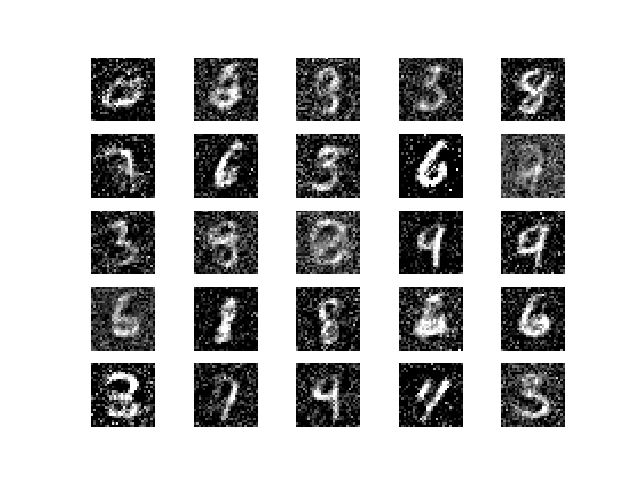
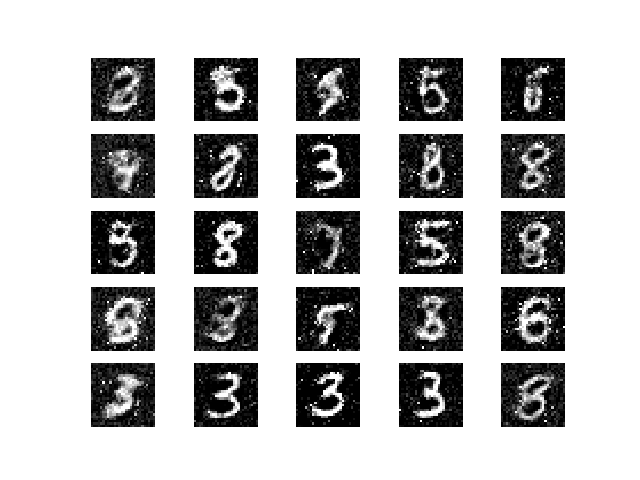
pg_gan example add

diff --git a/examples/pg_gan_fast.py b/examples/pg_gan_fast.py
@@ -1,0 +1,256 @@
+from GANLib import WGAN_GP, utils
+
+import tensorflow as tf
+import matplotlib.pyplot as plt
+import numpy as np
+
+from skimage.measure import block_reduce
+
+
+
+#                   Progressive Growing of GANs
+#   Paper: https://arxiv.org/pdf/1710.10196.pdf
+
+#       Description:
+#   Takes as input some dataset and trains the network as usual GAN but progressively 
+#   adding layers to generator and discriminator.
+
+#       Note:
+#   This implementation of PG GAN trains much faster than original, but support only 
+#   constant amount of filters for all convolution layers.
+
+#-------------------------------
+# Auxiliary functions
+#-------------------------------  
+
+def augment(data):
+    off_x_p = data.copy()
+    off_x_p[:,1:,:,:] = off_x_p[:,:-1,:,:]
+    off_x_m = data.copy()
+    off_x_p[:,:-1,:,:] = off_x_p[:,1:,:,:]
+    data = np.concatenate((data,off_x_p,off_x_m), axis = 0)
+    
+    off_y_p = data.copy()
+    off_y_p[:,:,1:,:] = off_y_p[:,:,:-1,:]
+    off_y_m = data.copy()
+    off_y_m[:,:,:-1,:] = off_y_m[:,:,1:,:]
+    data = np.concatenate((data,off_y_p,off_y_m), axis = 0)
+    
+    return data
+'''
+def dynamic_he_scale(x, gain = np.sqrt(2)): 
+    #He's normal dynamic weight scaler
+    shape = x.shape.as_list()
+    fan_in, _ = keras.initializers._compute_fans(shape)
+    std = np.sqrt(gain / max(1., fan_in)) 
+    x_scale = x * K.constant(std)
+    
+    return x_scale
+   
+class Conv2D_sw(Conv2D): #Conv2D layer with dynamically scaled weights
+    def __init__(self, filters, kernel_size, **kwargs):
+        super(Conv2D_sw, self).__init__(
+            filters=filters,
+            kernel_size=kernel_size,
+            **kwargs)
+       
+    def call(self, inputs):
+        outputs = K.conv2d(
+                inputs,
+                weights_scale_func(self.kernel),
+                strides=self.strides,
+                padding=self.padding,
+                data_format=self.data_format,
+                dilation_rate=self.dilation_rate)
+        
+        if self.use_bias:
+            outputs = K.bias_add(
+                outputs,
+                self.bias,
+                data_format=self.data_format)
+                
+        if self.activation is not None:
+            return self.activation(outputs)
+            
+        return outputs
+
+class Dense_sw(Dense): #Dense layer with dynamically scaled weights
+    def __init__(self, units, **kwargs):
+        super(Dense_sw, self).__init__(units = units, **kwargs)
+       
+    def call(self, inputs):
+        output = K.dot(inputs, weights_scale_func(self.kernel))
+        if self.use_bias:
+            output = K.bias_add(output, self.bias, data_format='channels_last')
+        if self.activation is not None:
+            output = self.activation(output)
+        return output
+     
+'''           
+#-------------------------------
+# Define models structure
+#-------------------------------      
+      
+initialization = 'he_normal' #keras.initializers.RandomNormal(0, 1)  
+weights_scale_func = dynamic_he_scale
+
+filters = 64
+noise_dim = 64 
+channels = 3
+
+weights = {}
+sheets = 0
+
+
+def new_sheet(filters, kernel_size, padding, name, pix_norm = True):
+    def func(layer):
+        #w = weights.get(name,None) , weights = w
+        layer = tf.layers.conv2d(layer, filters, kernel_size, padding=padding, name = name, kernel_initializer = initialization)
+        layer = tf.nn.leaky_relu(layer, alpha=0.2) 
+        if pix_norm: layer = utils.PixelNorm()(layer)
+        return layer
+    return func
+    
+def transition_alpha(self):
+    return K.minimum(self.epoch.tensor / (self.epochs.tensor/2), 1) 
+   
+def generator(input):
+    previous_step = None
+    next_step = None
+
+    input_layer = input #Input(shape=(self.latent_dim,))
+    layer = RepeatVector(16)(input_layer)
+    layer = Reshape((4, 4, self.latent_dim))(layer)
+    
+    layer = new_sheet(filters, (4,4), 'same', 'genr_head_0')(layer)
+    layer = new_sheet(filters, (3,3), 'same', 'genr_head_1')(layer)
+    
+    #Growing layers
+    for i in range(sheets):
+        layer = UpSampling2D(2)(layer)
+        if i == sheets-1: previous_step = layer
+            
+        layer = new_sheet(filters, (3,3), 'same', 'genr_layer_0'+str(i))(layer)
+   
+    next_step = tf.layers.conv2d(layer, channels, (1,1), name = 'to_rgb', kernel_initializer = initialization) #to RGB
+    
+    #smooth fading
+    if previous_step is not None: 
+        previous_step = tf.layers.conv2d(previous_step, channels, (1,1), name = 'to_rgb') 
+        layer = Lambda(lambda x: x[0] + (x[1] - x[0]) * transition_alpha(self))([previous_step, next_step])
+    else:
+        layer = next_step
+      
+    return Model(input_layer, layer)
+    
+def discriminator(input):
+    previous_step = None
+    next_step = None
+    
+    input_layer = input #Input(shape=self.input_shape)
+    
+    layer = tf.layers.conv2d(input_layer, filters, (1,1), name = 'from_rgb', kernel_initializer = initialization) #from RGB
+    layer = tf.nn.leaky_relu(layer, alpha=0.2)
+    layer = utils.PixelNorm()(layer)
+    
+    #Growing layers
+    for i in range(sheets, 0, -1):
+        layer = new_sheet(filters, (3,3), 'same', 'disc_layer_0'+str(i))(layer)
+        layer = AveragePooling2D(2)(layer)
+
+        #smooth fading
+        if i == sheets:
+            next_step = layer
+            
+            previous_step = AveragePooling2D(2)(input_layer)
+            previous_step = tf.layers.conv2d(previous_step, filters, (1,1), name = 'from_rgb') #from RGB
+            previous_step = tf.nn.leaky_relu(previous_step, alpha=0.2)
+            previous_step = utils.PixelNorm()(previous_step)
+        
+            layer = Lambda(lambda x: x[0] + (x[1] - x[0]) * transition_alpha(self))([previous_step, next_step])
+                
+    
+    layer = utils.MiniBatchStddev(group_size=4)(layer)
+    layer = new_sheet(filters, (3,3), 'same', 'disc_head_0')(layer)
+    layer = new_sheet(filters, (4,4), 'valid', 'disc_head_1')(layer)
+    
+    layer = Flatten()(layer)
+    layer = tf.layers.dense(1, activation=self.disc_activation, kernel_initializer = initialization)(layer)
+
+    return Model(input_layer, layer)
+    
+#-------------------------------
+#  Main code
+#-------------------------------  
+
+r, c = 4, 6
+sample_noise = np.random.uniform(-1, 1, (r * c, noise_dim))
+def sample_images(gen, file):
+    gen_imgs = gen.predict([sample_noise])
+
+    # Rescale images 0 - 1
+    gen_imgs = 0.5 * gen_imgs + 0.5
+    gen_imgs = np.clip(gen_imgs,0,1)
+    
+    fig, axs = plt.subplots(r, c)
+    cnt = 0
+    for i in range(r):
+        for j in range(c):
+            if gen_imgs.shape[-1] == 1: 
+                axs[i,j].imshow(gen_imgs[cnt,:,:,0], cmap='gray')
+            else:
+                axs[i,j].imshow(gen_imgs[cnt,:,:])
+            axs[i,j].axis('off')
+            cnt += 1
+    
+    fig.savefig(file)
+    plt.close()   
+    
+    
+# Load the dataset
+(dataseta, labelsa), (datasetb, labelsb) = cifar10.load_data()
+dataset = np.concatenate((dataseta,datasetb), axis = 0)
+labels = np.concatenate((labelsa,labelsb), axis = 0)
+
+indx = np.where(labels == 8)[0] # we choose only one specific domain from the dataset
+dataset = dataset[indx]
+
+# Configure input
+dataset = (dataset.astype(np.float32) - 127.5) / 127.5
+if len(dataset.shape)<4:
+    dataset = np.expand_dims(dataset, axis=3)
+    
+
+# 6000 examples is not enough, so we augment dataset by shifting it along axis by 1 pixel 
+dataset = augment(dataset)
+ 
+epochs_list = [4000, 8000, 16000, 32000]
+batch_size_list = [16, 16, 16, 16]  
+image_size_list = [4, 8, 16, 32] 
+
+for i in range(len(epochs_list)):    
+    epochs = epochs_list[i]
+    batch_size = batch_size_list[i]
+    
+    sz = dataset.shape[1] // image_size_list[i]
+    data_set = block_reduce(dataset, block_size=(1, sz, sz, 1), func=np.mean) 
+    print(data_set.shape)
+    
+    # Build and train GAN
+    gan = WGAN_GP(data_set.shape[1:], noise_dim, optimizer = Adam(0.0002, 0.5, 0.9, clipnorm = 10))
+    gan.generator = build_generator(gan) #define generator model
+    gan.discriminator = build_discriminator(gan) #define discriminator model
+
+    def callback():
+        sample_images(gan.generator, 'pg_gan.png')
+        
+    gan.train(data_set, epochs = epochs, batch_size = batch_size, checkpoint_callback = callback, collect_history = False)    
+    
+    # Save weights of the network
+    for l in gan.generator.layers:
+        weights[l.name] = l.get_weights() 
+        
+    for l in gan.discriminator.layers:
+        weights[l.name] = l.get_weights() 
+            
+    sheets += 1
